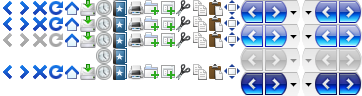
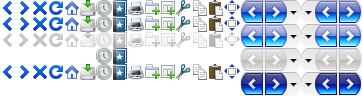
Bug 430384: tweak browser.css to use new dimensions of keyhole on windows xp & vista, patch by D�o Gottwald, r+a=mconnor

diff --git a/browser/themes/winstripe/browser/browser.css b/browser/themes/winstripe/browser/browser.css
@@ -234,31 +234,31 @@ toolbar[mode="icons"] #back-button {
 }
 
 toolbar[iconsize="large"][mode="icons"] #back-button {
-  -moz-image-region: rect(0px 398px 34px 360px);
+  -moz-image-region: rect(0px 396px 34px 360px);
 }
 toolbar[iconsize="large"][mode="icons"] #back-button:not([disabled="true"]):hover {
-  -moz-image-region: rect(34px 398px 68px 360px);
+  -moz-image-region: rect(34px 396px 68px 360px);
 }
 toolbar[iconsize="large"][mode="icons"] #back-button[disabled="true"] {
-  -moz-image-region: rect(68px 398px 102px 360px);
+  -moz-image-region: rect(68px 396px 102px 360px);
 }
 toolbar[iconsize="large"][mode="icons"] #back-button:not([disabled="true"]):hover:active {
-  -moz-image-region: rect(102px 398px 136px 360px);
+  -moz-image-region: rect(102px 396px 136px 360px);
 }
 
 /* unified back button with keyhole icons, RTL version */
 
 toolbar[iconsize="large"][mode="icons"] #back-button[chromedir="rtl"] {
-  -moz-image-region: rect(0px 516px 34px 478px);
+  -moz-image-region: rect(0px 516px 34px 480px);
 }
 toolbar[iconsize="large"][mode="icons"] #back-button[chromedir="rtl"]:not([disabled="true"]):hover {
-  -moz-image-region: rect(34px 516px 68px 478px);
+  -moz-image-region: rect(34px 516px 68px 480px);
 }
 toolbar[iconsize="large"][mode="icons"] #back-button[chromedir="rtl"][disabled="true"] {
-  -moz-image-region: rect(68px 516px 102px 478px);
+  -moz-image-region: rect(68px 516px 102px 480px);
 }
 toolbar[iconsize="large"][mode="icons"] #back-button[chromedir="rtl"]:not([disabled="true"]):hover:active {
-  -moz-image-region: rect(102px 516px 136px 478px);
+  -moz-image-region: rect(102px 516px 136px 480px);
 }
 
 /* unified forward button with keyhole icons */
@@ -270,31 +270,31 @@ toolbar[mode="icons"] #forward-button {
 }
 
 toolbar[iconsize="large"][mode="icons"] #forward-button {
-  -moz-image-region: rect(3px 424px 31px 398px);
+  -moz-image-region: rect(3px 422px 31px 396px);
 }
 toolbar[iconsize="large"][mode="icons"] #forward-button:not([disabled="true"]):hover {
-  -moz-image-region: rect(37px 424px 65px 398px);
+  -moz-image-region: rect(37px 422px 65px 396px);
 }
 toolbar[iconsize="large"][mode="icons"] #forward-button[disabled="true"] {
-  -moz-image-region: rect(71px 424px 99px 398px);
+  -moz-image-region: rect(71px 422px 99px 396px);
 }
 toolbar[iconsize="large"][mode="icons"] #forward-button:not([disabled="true"]):hover:active {
-  -moz-image-region: rect(105px 424px 133px 398px);
+  -moz-image-region: rect(105px 422px 133px 396px);
 }
 
 /* unified forward button with keyhole icons, RTL version */
 
 toolbar[iconsize="large"][mode="icons"] #forward-button[chromedir="rtl"] {
-  -moz-image-region: rect(3px 478px 31px 452px);
+  -moz-image-region: rect(3px 480px 31px 454px);
 }
 toolbar[iconsize="large"][mode="icons"] #forward-button[chromedir="rtl"]:not([disabled="true"]):hover {
-  -moz-image-region: rect(37px 478px 65px 452px);
+  -moz-image-region: rect(37px 480px 65px 454px);
 }
 toolbar[iconsize="large"][mode="icons"] #forward-button[chromedir="rtl"][disabled="true"] {
-  -moz-image-region: rect(71px 478px 99px 452px);
+  -moz-image-region: rect(71px 480px 99px 454px);
 }
 toolbar[iconsize="large"][mode="icons"] #forward-button[chromedir="rtl"]:not([disabled="true"]):hover:active {
-  -moz-image-region: rect(105px 478px 133px 452px);
+  -moz-image-region: rect(105px 480px 133px 454px);
 }
 
 /* dropmarker for unified back and forward buttons with keyhole icons */
@@ -317,31 +317,31 @@ toolbar[mode="icons"] #back-forward-dropmarker > dropmarker {
 
 toolbar[iconsize="large"][mode="icons"] #back-forward-dropmarker {
   list-style-image: url("chrome://browser/skin/Toolbar.png");
-  -moz-image-region: rect(3px 438px 31px 424px);
+  -moz-image-region: rect(3px 438px 31px 422px);
 }
 toolbar[iconsize="large"][mode="icons"] #back-forward-dropmarker:not([disabled="true"]):hover {
-  -moz-image-region: rect(37px 438px 65px 424px);
+  -moz-image-region: rect(37px 438px 65px 422px);
 }
 toolbar[iconsize="large"][mode="icons"] #back-forward-dropmarker[disabled="true"] {
-  -moz-image-region: rect(71px 438px 99px 424px);
+  -moz-image-region: rect(71px 438px 99px 422px);
 }
 toolbar[iconsize="large"][mode="icons"] #back-forward-dropmarker:not([disabled="true"]):hover:active {
-  -moz-image-region: rect(105px 438px 133px 424px);
+  -moz-image-region: rect(105px 438px 133px 422px);
 }
 
 /* unified dropmarker with keyhole icons, RTL version */
 
 toolbar[iconsize="large"][mode="icons"] #back-forward-dropmarker[chromedir="rtl"] {
-  -moz-image-region: rect(3px 452px 31px 438px);
+  -moz-image-region: rect(3px 454px 31px 438px);
 }
 toolbar[iconsize="large"][mode="icons"] #back-forward-dropmarker[chromedir="rtl"]:not([disabled="true"]):hover {
-  -moz-image-region: rect(37px 452px 65px 438px);
+  -moz-image-region: rect(37px 454px 65px 438px);
 }
 toolbar[iconsize="large"][mode="icons"] #back-forward-dropmarker[chromedir="rtl"][disabled="true"] {
-  -moz-image-region: rect(71px 452px 99px 438px);
+  -moz-image-region: rect(71px 454px 99px 438px);
 }
 toolbar[iconsize="large"][mode="icons"] #back-forward-dropmarker[chromedir="rtl"]:not([disabled="true"]):hover:active {
-  -moz-image-region: rect(105px 452px 133px 438px);
+  -moz-image-region: rect(105px 454px 133px 438px);
 }
 
 /* ::::: unified back and forward buttons, small icons mode ::::: */
